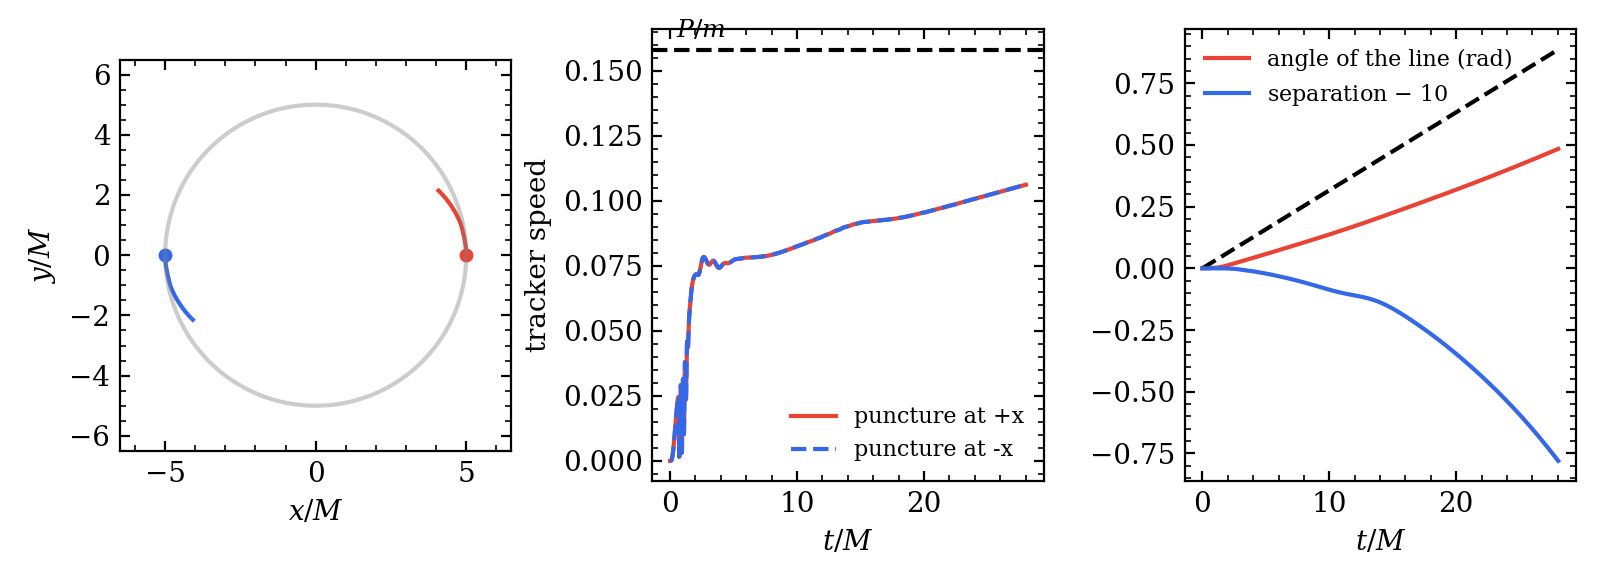
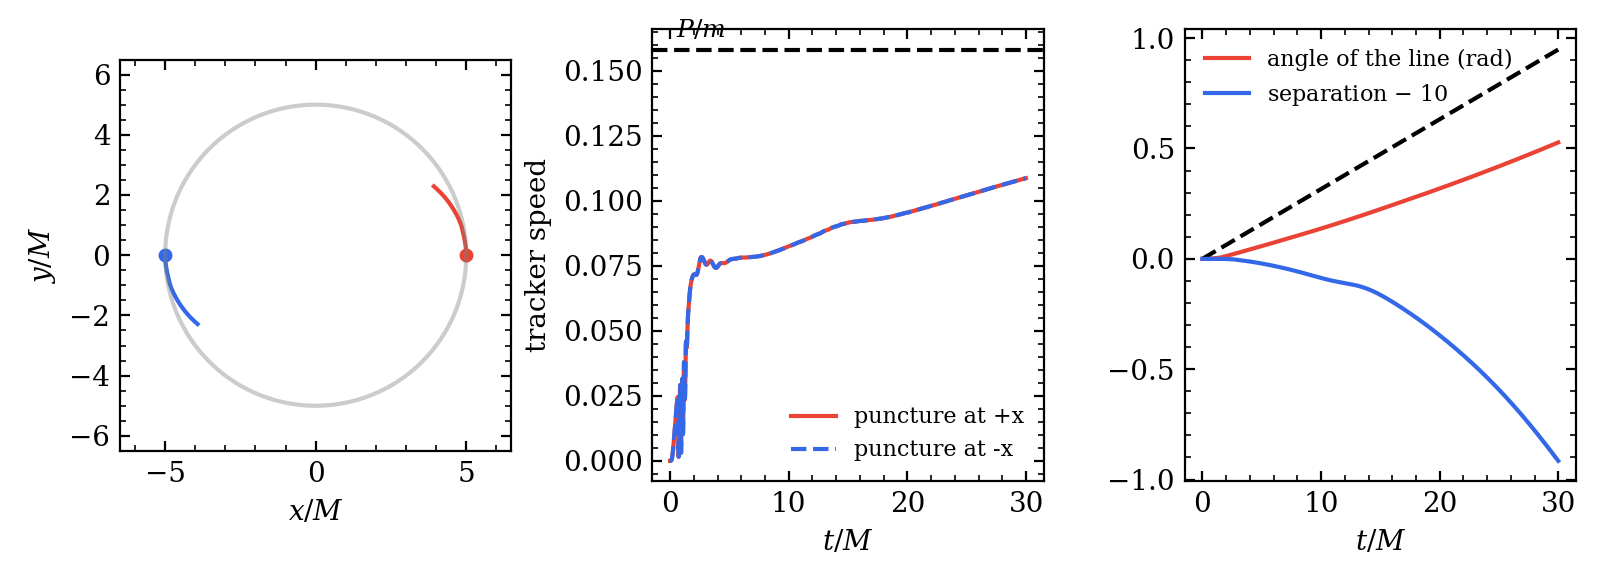
Test 2: two Bowen-York punctures evolved 30 M (run core-20261115-120835-d08c476): symmetric to 4e-14, counter-clockwise by 0.53 rad, tracker speed 0.69 of P/m and rising, separation 10 to 9.08, both horizons in every search
Claude-Session: https://claude.ai/code/session_01VD79cUYemmpt27M8dtYPfW

diff --git a/tracks/core/JOURNAL-mp.md b/tracks/core/JOURNAL-mp.md
@@ -537,3 +537,31 @@ the single hole of 1b (E) (m = 1, P = 0.043, S = 0.3) run again with
 t = 1.6 is at least five times smaller than in run (E) with `shift_eta = 2`, and the
 displacement at t = 1.6 is below 1e-3. If the speeds are equal within a factor 2 the
 explanation is wrong.
+
+### Outcome of test 2 (card run `core-20261115-120835-d08c476`, executable of 7a60df2, to t = 30)
+
+Numbers from `multi_check.py` (`multi_check.json`), figure `figs/binary_evolution.png`
+(looked at: two symmetric arcs, counter-clockwise, bending inward).
+ - 1920 cycles in 700 s (0.194 card-hours), 8.4e6 zone-cycles per second, 568
+   MeshBlocks at the start, 932 at the end (392 created, 28 removed), peak card memory
+   58.5 GB (block limit 2400, two finders).
+ - Mean of the two trackers within 3.6e-14 of the origin, z below 4e-14. Held.
+ - Both punctures start along their momenta; the line turns counter-clockwise by
+   0.527 rad at t = 30 (Newtonian rate would give 0.95). Held.
+ - Tracker speed: 0.075 within 2.5 M, then a slow rise to 0.109 at t = 30, 0.69 of
+   P/m = 0.158. Held (range 0.5 to 1.1), but the speed is not settled.
+ - Coordinate separation: 10.00, 9.88 at t = 10, 9.08 at t = 30, shrinking faster with
+   time. Inside 10 +- 1 at t = 30 as predicted, though it would leave that band soon
+   after. With the trackers at 0.7 of the circular speed the punctures fall inward in
+   these coordinates; whether that is the lag of the gauge (the tracker follows minus
+   the shift, which starts at zero) or the orbit itself cannot be told from this run
+   [TO VERIFY at higher resolution and with a longer run].
+ - Horizons found in all 120 searches of each hole; masses 0.5096 at t = 0, between
+   0.5034 and 0.5166 during the first 2.5 M, 0.5156 at the end; the two agree to 3e-7.
+   Predicted 0.510 to 0.520 and constant to one percent: the first value is 0.0004
+   below the range and the early scatter is 1.3 percent: FAILED by these margins; from
+   t = 3 on the masses are within the range and drift by +0.3 percent.
+ - History norms: H 9.6e-5 at t = 0 (truncation at the punctures on cells of m/8;
+   the closed-form residual with the correction is 5.6e-6), peak 2.2e-3 at t = 1.25,
+   8.4e-4 at t = 30; momentum 1.8e-6, peak 5.6e-4, 4.6e-4 at the end. Bounded, but as
+   in test 3 set by the evolution of the punctures, not by the initial data.
